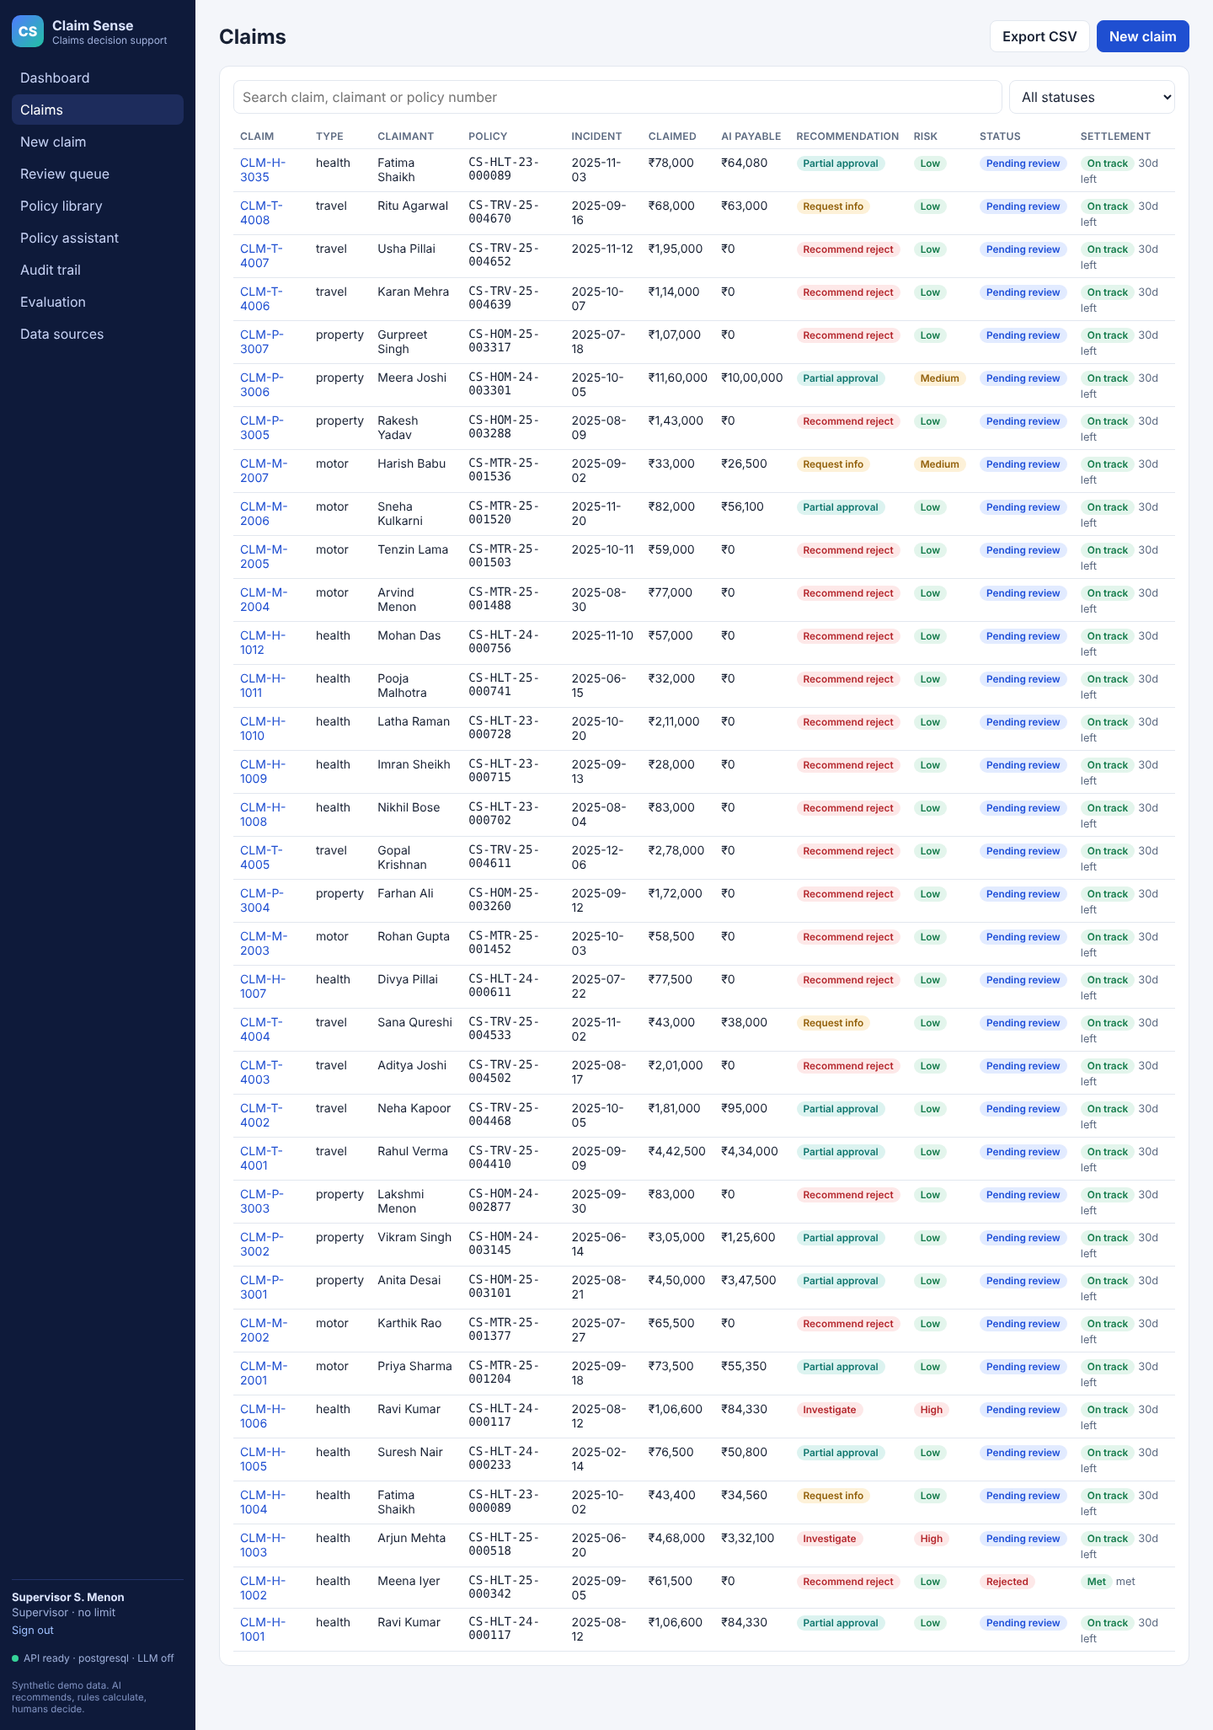
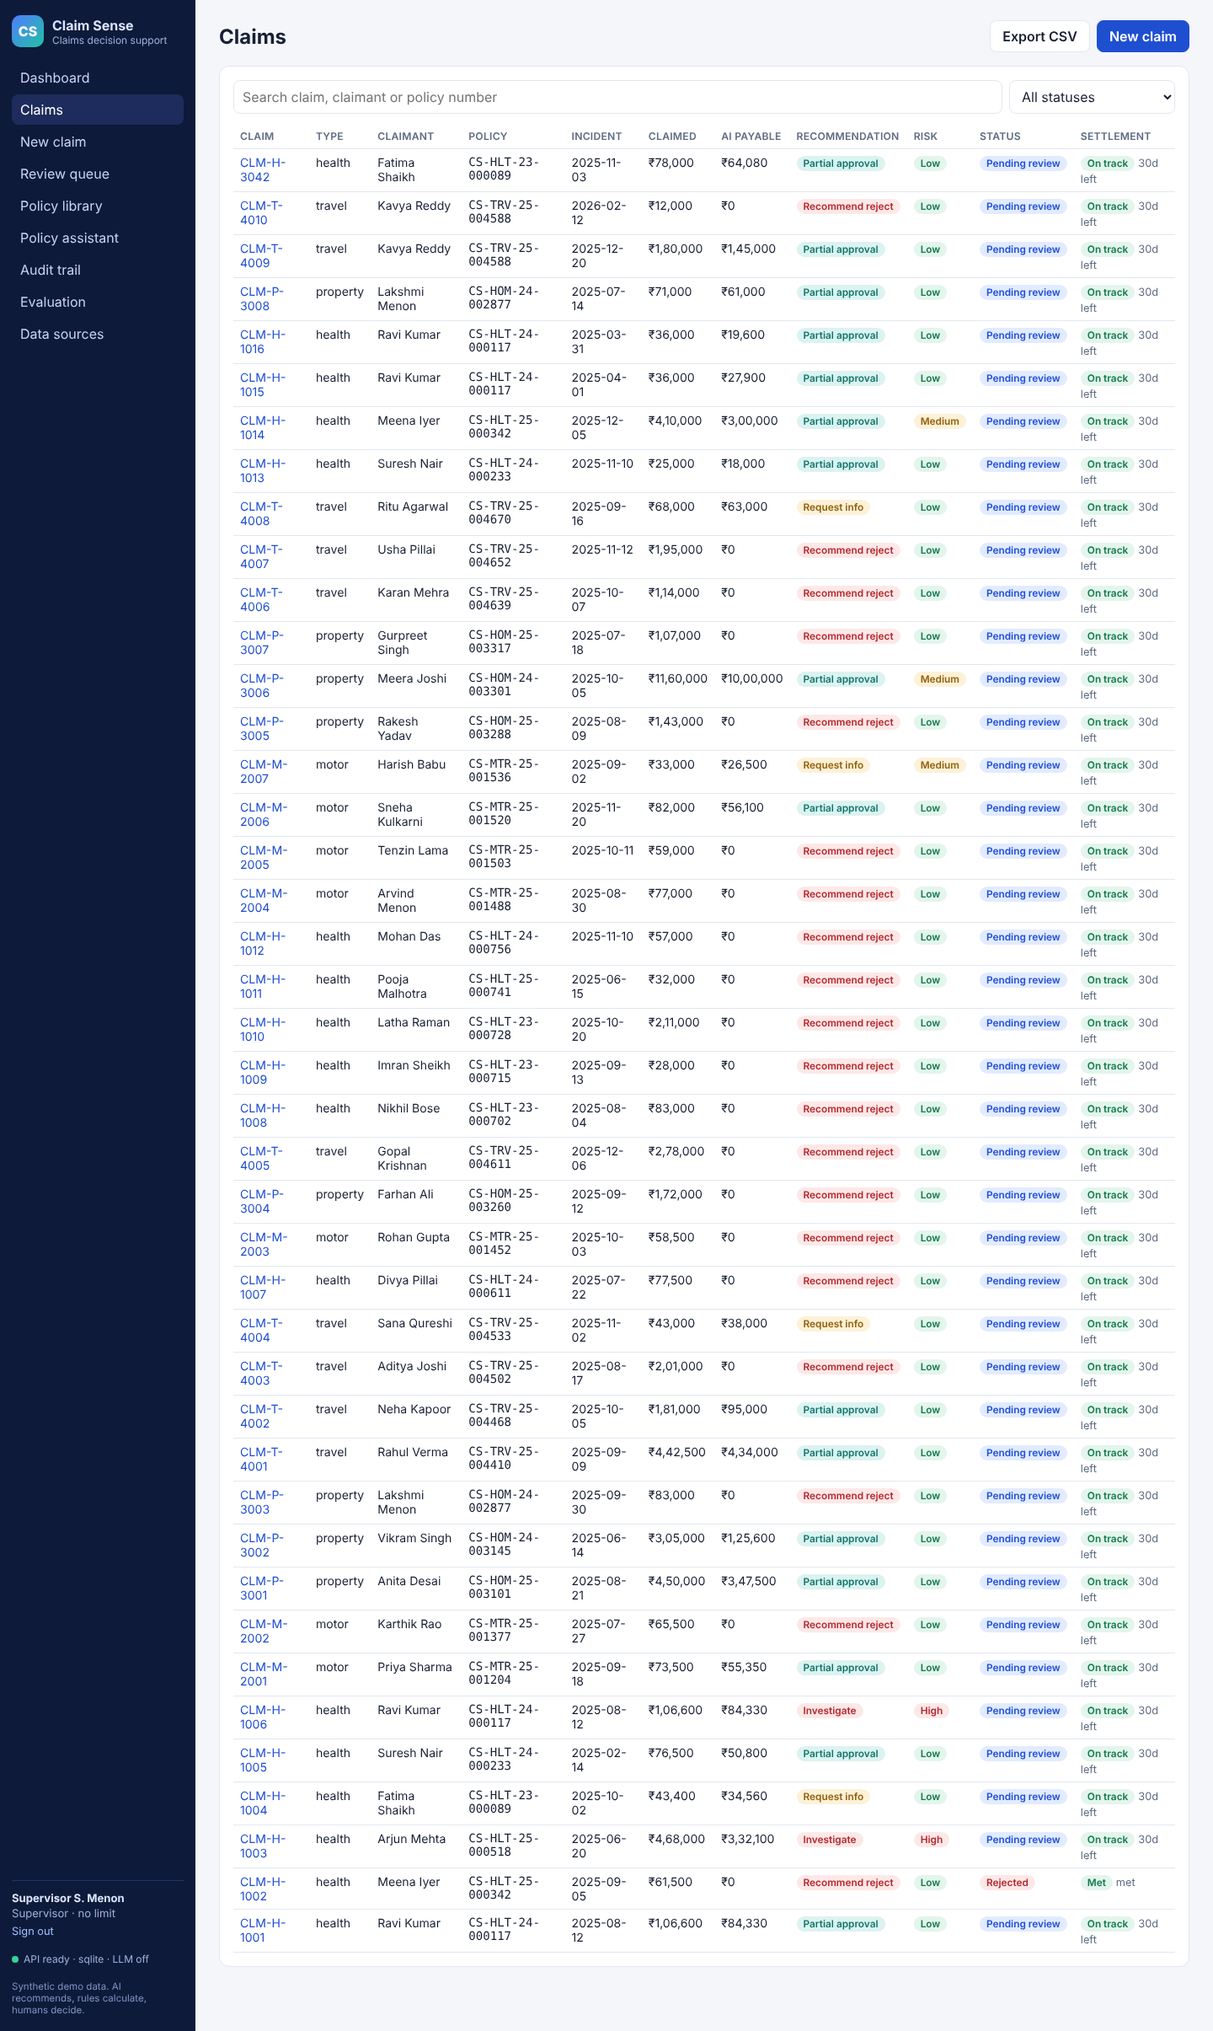
Seed the evaluation packets so the live app holds every claim
The deployed app seeded only the 34 scenarios, so its dashboard read 34
(37 after the smoke test) while the results report covered 42 packets.
The seed now also files the 7 evaluation packets under fixed numbers kept
in golden_cases.json (CLM-H-1013..1016, CLM-P-3008, CLM-T-4009/4010),
behind CLAIMSENSE_SEED_PACKETS (default on). The evaluation, the claims
report and the tests turn it off: they file the same packets fresh, and
a seeded copy would be flagged as a duplicate.

test_seed_packets.py checks a fresh seed makes 41 claims, is idempotent,
and gives each packet its hand-worked recommendation and amount.
Evaluation 612/612 and the claims report are unchanged; screenshots
regenerated (dashboard 42 claims, Rs 34,62,750 payable).

Claude-Session: https://claude.ai/code/session_01Jt1abTRDHyLt58nbRLKUtK

diff --git a/backend/tests/test_seed_packets.py b/backend/tests/test_seed_packets.py
@@ -1,0 +1,35 @@
+import json
+from decimal import Decimal
+
+from sqlalchemy import create_engine
+from sqlalchemy.orm import sessionmaker
+
+from app import seed as seeding
+from app.config import settings
+from app.db import Base, SessionLocal
+from app.models import Claim, ClaimDecision
+from app.rag import service as rag
+
+from .conftest import DATA
+
+
+def test_live_seed_files_every_evaluation_packet_with_the_golden_outcome(client, tmp_path, monkeypatch):
+    """The deployed app seeds the packets as claims too; each must come out as the hand-worked golden case says."""
+    cases = [c for c in json.loads((DATA / "evaluation" / "golden_cases.json").read_text())["claims"] if "packet" in c]
+    assert len(cases) == 7 and all(c["seeded_as"] for c in cases)
+    engine = create_engine(f"sqlite:///{tmp_path / 'live.db'}")
+    Base.metadata.create_all(engine)
+    monkeypatch.setattr(settings, "seed_packets", True)
+    try:
+        with sessionmaker(bind=engine, expire_on_commit=False)() as db:
+            assert seeding.seed(db)["claims"] == 34 + 7
+            assert seeding.seed(db)["claims"] == 0  # idempotent
+            for c in cases:
+                claim = db.query(Claim).filter_by(claim_number=c["seeded_as"]).one()
+                ai = db.query(ClaimDecision).filter_by(claim_id=claim.id, source="AI").one()
+                assert (ai.decision, ai.payable_amount) == (c["expect"]["recommendation"],
+                                                            Decimal(c["expect"]["payable_amount"])), c["id"]
+    finally:
+        with SessionLocal() as db:  # the retrieval index is shared: point it back at the test database
+            rag.rebuild_index(db)
+        engine.dispose()

diff --git a/backend/app/seed.py b/backend/app/seed.py
@@ -53,6 +53,28 @@ def _sync_registry(db: Session) -> None:
         db.commit()
 
 
+def _seed_packets(db: Session, analyze: bool) -> int:
+    """File the evaluation packets as claims too, under the numbers in golden_cases.json, so the demo holds every packet."""
+    eval_dir = settings.data_dir / "evaluation"
+    cases = json.loads((eval_dir / "golden_cases.json").read_text(encoding="utf-8"))["claims"]
+    created = 0
+    for case in cases:
+        number = case.get("seeded_as")
+        if not number or db.query(Claim).filter_by(claim_number=number).first():
+            continue
+        claim = Claim(claim_number=number, policy_number=case["policy_number"], claim_type=case["claim_type"],
+                      claimant_name=case["claimant"], description=case["title"], status="SUBMITTED")
+        db.add(claim)
+        db.flush()
+        for path in sorted((eval_dir / "packets" / case["packet"]).glob("*.txt")):
+            add_document(db, claim, path.name, path.read_bytes(), actor="seed")
+        db.commit()
+        created += 1
+        if analyze:
+            analyze_claim(db, claim, actor="seed")
+    return created
+
+
 def seed(db: Session, analyze: bool = True) -> dict:
     pol_dir = settings.data_dir / "policies"
     created = {"policy_versions": 0, "claims": 0}
@@ -90,5 +112,7 @@ def seed(db: Session, analyze: bool = True) -> dict:
         created["claims"] += 1
         if analyze:
             analyze_claim(db, claim, actor="seed")
+    if settings.seed_packets:
+        created["claims"] += _seed_packets(db, analyze)
     log.info("seed complete: %s", created)
     return created

diff --git a/scripts/claims_report.py b/scripts/claims_report.py
@@ -3,7 +3,7 @@
 
 Usage: python scripts/claims_report.py [--out reports]
 
-Creates a temporary SQLite database seeded with the synthetic corpus (the 15 seeded claims are analysed on
+Creates a temporary SQLite database seeded with the synthetic corpus (the 34 seeded claims are analysed on
 start-up), then files the 7 evaluation packets and the demo upload as new claims through the real API, exactly
 as the UI does. Every figure in claims_results.json and claims_results.md is read back from the API: amounts from
 the deterministic rules engine, clauses from the matched wording, routing from the review queue. Also includes the
@@ -188,7 +188,7 @@ def main() -> int:
     args = ap.parse_args()
     tmp = Path(tempfile.mkdtemp(prefix="claimsense-report-"))
     os.environ.update(DATABASE_URL=f"sqlite:///{tmp / 'report.db'}", CLAIMSENSE_STORAGE_DIR=str(tmp / "storage"),
-                      CLAIMSENSE_SEED="true")
+                      CLAIMSENSE_SEED="true", CLAIMSENSE_SEED_PACKETS="false")
     os.environ.pop("ANTHROPIC_API_KEY", None)
     sys.path.insert(0, str(ROOT / "backend"))
 

diff --git a/scripts/evaluate.py b/scripts/evaluate.py
@@ -3,7 +3,7 @@
 
 Usage: python scripts/evaluate.py [--out reports]
 
-Creates a temporary SQLite database seeded with the synthetic corpus, runs the 22 claim cases and 26
+Creates a temporary SQLite database seeded with the synthetic corpus, runs the 41 claim cases and 26
 policy-assistant questions in data/evaluation/ through the real API, and writes evaluation.json and
 evaluation.md. Exits 1 if any check fails. The LLM is always off so results are deterministic.
 """
@@ -25,7 +25,7 @@ def main() -> int:
 
     tmp = Path(tempfile.mkdtemp(prefix="claimsense-eval-"))
     os.environ.update(DATABASE_URL=f"sqlite:///{tmp / 'eval.db'}", CLAIMSENSE_STORAGE_DIR=str(tmp / "storage"),
-                      CLAIMSENSE_SEED="true")
+                      CLAIMSENSE_SEED="true", CLAIMSENSE_SEED_PACKETS="false")
     os.environ.pop("ANTHROPIC_API_KEY", None)
     sys.path.insert(0, str(ROOT / "backend"))
 

diff --git a/backend/app/config.py b/backend/app/config.py
@@ -12,6 +12,9 @@ class Settings:
     data_dir = Path(os.getenv("CLAIMSENSE_DATA_DIR", REPO_ROOT / "data"))
     storage_dir = Path(os.getenv("CLAIMSENSE_STORAGE_DIR", REPO_ROOT / "backend" / "storage"))
     seed_on_startup = os.getenv("CLAIMSENSE_SEED", "true").lower() == "true"
+    # Also seed the evaluation packets as claims. The evaluation and the claims report turn this off because they
+    # file the same packets themselves, and a second copy would be flagged as a duplicate.
+    seed_packets = os.getenv("CLAIMSENSE_SEED_PACKETS", "true").lower() == "true"
     cors_origins = os.getenv("CORS_ORIGINS", "http://localhost:5173,http://localhost:8080").split(",")
     # Optional LLM narrative. Without a key, explanations are extractive (quoted policy text only).
     anthropic_api_key = os.getenv("ANTHROPIC_API_KEY", "")

diff --git a/backend/tests/conftest.py b/backend/tests/conftest.py
@@ -9,6 +9,7 @@ _tmp = Path(tempfile.mkdtemp(prefix="claimsense-test-"))
 os.environ["DATABASE_URL"] = f"sqlite:///{_tmp / 'test.db'}"
 os.environ["CLAIMSENSE_STORAGE_DIR"] = str(_tmp / "storage")
 os.environ["CLAIMSENSE_SEED"] = "true"
+os.environ["CLAIMSENSE_SEED_PACKETS"] = "false"  # tests file the evaluation packets themselves
 os.environ.pop("ANTHROPIC_API_KEY", None)
 sys.path.insert(0, str(Path(__file__).resolve().parents[1]))
 

diff --git a/docs/IMPLEMENTATION_STATUS.md b/docs/IMPLEMENTATION_STATUS.md
@@ -32,13 +32,19 @@ The repository held one file, `PROJECT 1.MD` (the original project prompt). Ther
 | – | Claim workspace tabs (blueprint Prompt 15) | `ClaimDetail.tsx`: Overview, Documents, Policy & evidence, Coverage, Adjudication, Risk, Review, Audit, with counts and deep links (`/claims/CLM-H-1002#coverage`); empty states when no analysis yet; "Open review" prompt while a decision is pending | `npm run build`; browser run uses every tab; screenshots `02`–`06`, `16-claim-evidence.png` |
 | – | Data provenance (blueprint Data Prompts A and G) | `data/source_registry.json` (14 sources: 5 synthetic in use with SHA-256 over their files, 9 public sources registered, not downloaded); `provenance.py` validator rejects missing provenance, unconfirmed licences on in-use data and checksum drift; RAG manifest (`/knowledge-base/manifest`, `reports/rag_manifest.json`) resolves every indexed chunk to source file, version, page, section/clause and extraction run; the index keeps out chunks that do not resolve; Data sources screen shows both; `docs/DATA_PROVENANCE.md` | `test_provenance.py` (6); `scripts/provenance.py --check` in CI (85 chunks from 5 wordings, 0 rejected, manifest reproducible); smoke test against Docker + PostgreSQL (14 sources, 0 problems; 85 chunks, 0 rejected); browser run, 0 console errors, screenshot `17-data-provenance.png` |
 | – | Property and travel lines | HOME-GUARD 2025.1 and TRV-GLOBE 2025.1 wordings and terms (`data/synthetic/generate.py`); `rules.adjudicate_property` (contents depreciation 2.2, average clause 2.3 with 15% tolerance, excess 4.1, sum insured cap 1.2) and `rules.adjudicate_travel` (non-payable items 2.4, per-item and per-benefit limits 2.2/2.3, deductible 4.1, cap 1.2); coverage checks the trip period (1.3) and documents that depend on the loss (police report, airline irregularity report, medical report); per-line item categories; travel risk ignores early-claim; 7 seeded claims, 3 evaluation packets; New Claim offers all four lines | `test_property_travel.py` (11); evaluation C13–C22 with hand-worked amounts; smoke test files a property (₹3,47,500) and travel (₹95,000) claim; browser test files both from the UI; screenshots `20`–`22` |
-| – | Results on every claim | `scripts/claims_report.py` runs all 42 claim packets (34 seeded, 7 evaluation, demo upload) through the API on a fresh database and writes `reports/claims_results.{json,md}`: per-claim outcome, clause, risk and queue, totals by line, deductions by rule, portfolio risk-rule results | Run 2026-10-12: 23 claims, ₹35,29,100 billed, ₹23,17,150 recommended payable, every claim routed to human review |
+| – | Results on every claim | `scripts/claims_report.py` runs all 42 claim packets (34 seeded, 7 evaluation, demo upload; the deployed app seeds the first 41) through the API on a fresh database and writes `reports/claims_results.{json,md}`: per-claim outcome, clause, risk and queue, totals by line, deductions by rule, portfolio risk-rule results | Run 2026-10-12: 23 claims, ₹35,29,100 billed, ₹23,17,150 recommended payable, every claim routed to human review |
 | – | Settlement clock | `sla.py`: due date from the `settlement_days` term (clause 6.3 health, 4.3 motor), counted from the last document; shown on claim page, claims list, review queue and dashboard | `test_letters_sla.py`; browser run |
 | – | Decision letters | `letters.py`, `GET /claims/{n}/letter`: settlement, repudiation (quotes the clause), document request, under review; deterministic, marked draft until a human decides | `test_letters_sla.py`; browser run generates the ₹64,080.00 settlement letter; screenshot `12-rejection-letter.png` |
 | – | CSV export | `GET /claims-export.csv`, Export CSV button on `/claims` | `test_letters_sla.py`; browser download |
 | – | Sign-in throttle and injection guard (blueprint Prompt 16) | `auth.LoginThrottle` (429 + `Retry-After`), `safety.py` scan in the Intake Agent, `EMBEDDED_INSTRUCTIONS` risk signal; assistant refusal gate | `test_security_guards.py`: 5 failures then 429; injected discharge summary is flagged HIGH, routed to investigation, payable unchanged at ₹64,080 |
 | – | Override and escalation rates (blueprint Prompt 14) | `analytics.dashboard`: override rate, amount overrides, escalation rate, reviewer actions; dashboard KPIs | `test_dashboard_reports_override_and_escalation_rates` |
 | – | Security | Upload allow-list, size limit and filename sanitising; security headers and CSP; non-root container; dependency audits; see `docs/SECURITY.md` | Header and path tests; pip-audit and npm audit clean |
+
+## Validation results (2026-10-12, every packet in the live app)
+
+- **Live app showed 34 claims (37 after the smoke test) while the results report covered 42.** The 7 evaluation packets were only filed by the evaluation and the claims report, never seeded. The seed now files them too, under fixed numbers kept in `golden_cases.json` (`seeded_as`: CLM-H-1013 to 1016, CLM-P-3008, CLM-T-4009, CLM-T-4010), controlled by `CLAIMSENSE_SEED_PACKETS` (default on). The evaluation, the claims report and the tests switch it off because they file the same packets fresh, and a seeded copy would be flagged as a duplicate (D25).
+- `test_seed_packets.py`: a fresh seed creates 41 claims, a second seed none, and each seeded packet gets its golden recommendation and amount. `pytest`: 110 passed. `evaluate.py`: 612 / 612. `claims_report.py`: unchanged (42 claims, ₹65,64,100 billed, ₹34,62,750 payable). Provenance restamped for the changed golden cases.
+- Fresh local stack (SQLite, built frontend): seed reports 41 claims; smoke test passed; Playwright 12 / 12; screenshots regenerated, dashboard 42 claims after the browser-filed claim, ₹34,62,750 AI payable, the same as the report.
 
 ## Validation results (2026-10-12, screenshots)
 

diff --git a/docs/TESTING.md b/docs/TESTING.md
@@ -29,9 +29,10 @@ CI (`.github/workflows/ci.yml`) runs all of these on every push and pull request
 | `test_fact_correction.py` | 2 | Correction used by the next analysis, audited, extracted value kept, latest wins; date, amount, reason, role and decided-claim validation |
 | `test_provenance.py` | 6 | Committed registry valid; validator rejects missing or wrong provenance and checksum drift; `/datasets`; every indexed chunk resolves; a chunk without an extraction run is kept out of the index; backfill |
 | `test_property_travel.py` | 11 | Property average clause (hand calculation) and tolerance; valuables; travel per-item and benefit limits; medical without sub-limit; per-line item categories; value at risk extracted; burglary without a police report; travel claim outside the trip; claim-type validation; value-at-risk correction validated and used |
+| `test_seed_packets.py` | 1 | The deployed seed files the 7 evaluation packets as claims, idempotently, each with its hand-worked recommendation and amount |
 | `test_review_assignment.py` | 3 | Queue shows risk, age and assignee; take, release and supervisor reassignment; others cannot take or decide an assigned task; supervisor-queue and auditor limits; audit events |
 
-Tests use an isolated temporary SQLite database seeded from `data/`. The LLM is always off.
+Tests use an isolated temporary SQLite database seeded from `data/`, without the evaluation packets (`CLAIMSENSE_SEED_PACKETS=false`), because several tests file those packets themselves. The LLM is always off.
 
 ## Golden evaluation (`scripts/evaluate.py`)
 

diff --git a/README.md b/README.md
@@ -39,7 +39,7 @@ All policies, people and claims in this repository are **synthetic**. See [Data]
 
 ## Real results from the golden scenarios
 
-These are the outputs the running system produces for the 34 seeded claims, one or more for every exclusion, waiting period, limit and loss-dependent document in the four wordings (no hand-edited numbers; `backend/tests/test_golden_path.py` asserts the recommendations and `reports/evaluation.md` the amounts). [reports/claims_results.md](reports/claims_results.md) has all 42 claim packets in the repository, totals by line and where the money went; regenerate it with `python3 scripts/claims_report.py`.
+These are the outputs the running system produces for the 34 seeded scenarios, one or more for every exclusion, waiting period, limit and loss-dependent document in the four wordings (no hand-edited numbers; `backend/tests/test_golden_path.py` asserts the recommendations and `reports/evaluation.md` the amounts). [reports/claims_results.md](reports/claims_results.md) has all 42 claim packets in the repository, totals by line and where the money went; regenerate it with `python3 scripts/claims_report.py`. The deployed app starts with 41 of them already analysed (the 34 scenarios and the 7 evaluation packets); the demo upload is the one you file yourself.
 
 | Claim | Scenario | Wording | Claimed | Payable | Coverage | Risk | Recommendation |
 |---|---|---|---:|---:|---|---|---|

diff --git a/docs/DECISIONS.md b/docs/DECISIONS.md
@@ -26,3 +26,4 @@
 | D22 | Travel risk scoring ignores the early-claim signal | A trip policy starts at departure, so a loss soon after the start is expected and would mark every travel claim as riskier |
 | D23 | The pre-existing disease waiting period is applied when the claim documents name the condition as pre-existing, declared at proposal or a known case | Extraction has no medical history beyond the documents; reading what the treating hospital wrote keeps the check deterministic and cited to §3.2, and a reviewer can correct the facts before re-running |
 | D24 | Every exclusion, waiting period, limit and loss-dependent document in a wording has at least one seeded claim with a hand-worked golden case | A rule no claim exercises is a rule nobody has checked; the audit that introduced this found the pre-existing disease period unenforced |
+| D25 | The deployed app also seeds the 7 evaluation packets as claims (`CLAIMSENSE_SEED_PACKETS`); the evaluation, the claims report and the tests turn it off | A reviewer opening the demo should see every packet the results report covers, but the evaluation files the same packets fresh through the API to test the upload path, and a seeded copy would make each one a duplicate |

diff --git a/docs/DEPLOYMENT.md b/docs/DEPLOYMENT.md
@@ -26,7 +26,7 @@ Behind a TLS-inspecting proxy, pass its CA to the build: `docker build --secret 
 3. Wait for the health check on `/api/v1/health`, then run `python3 scripts/smoke_test.py https://<your-app>.onrender.com <DEMO_PASSWORD>`. For the browser suite as well: `cd e2e && BASE_URL=https://<your-app>.onrender.com DEMO_PASSWORD=<…> npx playwright test` (on a freshly started service).
 4. Or verify from GitHub instead of your machine: run the **Verify deployment** workflow (Actions tab) with the service URL. It waits for `/api/v1/ready`, runs the smoke test and, if ticked, the browser suite. Set the `DEMO_PASSWORD` repository secret first if you changed the password.
 
-The free plan uses SQLite that is re-seeded on each restart, which suits a demo but not real data.
+The free plan uses SQLite that is re-seeded on each restart, which suits a demo but not real data. A fresh start holds 41 analysed claims: the 34 seeded scenarios and the 7 evaluation packets (`CLAIMSENSE_SEED_PACKETS`, on by default). Claims filed through the UI or the smoke test are added to these and are lost at the next restart.
 
 ## Environment variables
 

diff --git a/RELEASE_NOTES.md b/RELEASE_NOTES.md
@@ -1,5 +1,11 @@
 # Release notes
 
+## Claim Sense 1.3.1 — 2026-10-12
+
+- **The live app holds every claim packet.** It used to start with the 34 seeded scenarios only, so the dashboard read 34 (37 after the smoke test) while the results report covered 42. The 7 evaluation packets are now seeded too, as CLM-H-1013 to 1016, CLM-P-3008 and CLM-T-4009/4010, each with its hand-worked outcome (`test_seed_packets.py`). A fresh start shows 41 claims; filing the demo upload makes 42.
+- Interactive dashboard: every tile, line of business and bar opens the claims list with that filter. Pages are sent with `Cache-Control: no-cache` so a browser no longer keeps a stale unstyled page.
+- The evaluation scorecard no longer clips three-digit counts; README screenshots regenerated by `e2e/screenshots.mjs`.
+
 ## Claim Sense 1.3.0 — 2026-10-12
 
 - **Every rule in the four wordings is now exercised by a claim.** An audit found two rules that were written down but not applied: the health pre-existing disease waiting period (§3.2) and the motor police report for theft or malicious damage (§4.1). Both are now enforced.
